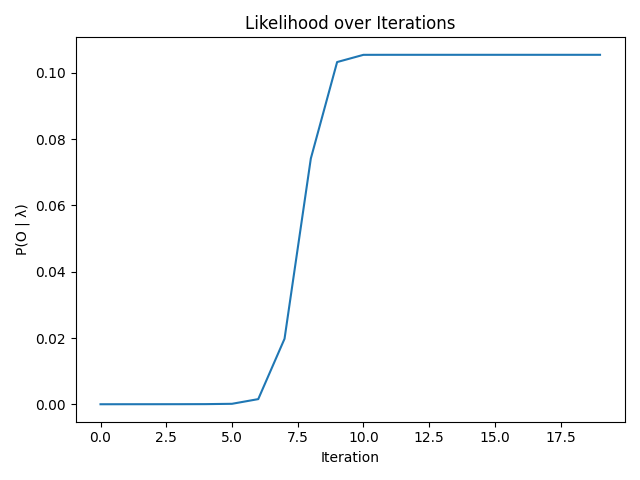
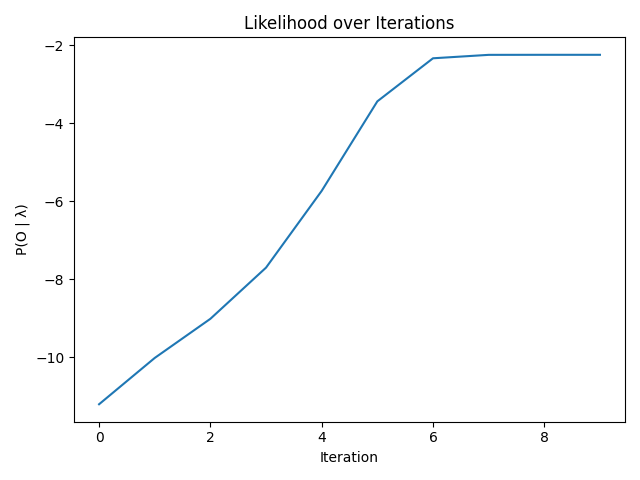
Added graph

diff --git a/hmm.py b/hmm.py
@@ -46,7 +46,7 @@ def baum_welch(obs_seq, N, M, iterations=20):
 
     likelihoods = []
 
-    for _ in range(iterations):
+    for j in range(iterations):
 
         alpha, likelihood = forward(obs_seq, A, B, pi)
         beta = backward(obs_seq, A, B)
@@ -86,6 +86,9 @@ def baum_welch(obs_seq, N, M, iterations=20):
                 mask = (obs_seq == k)
                 B[i, k] = np.sum(gamma[mask, i]) / np.sum(gamma[:, i])
 
-        likelihoods.append(likelihood)
+        likelihoods.append(np.log(likelihood + 1e-12))
+        if j > 1 and abs(likelihoods[-1] - likelihoods[-2]) < 1e-4:
+            break
+
 
     return pi, A, B, likelihoods
